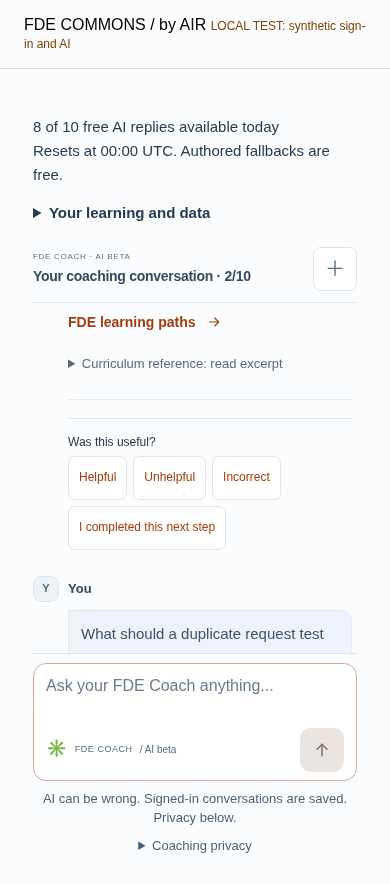
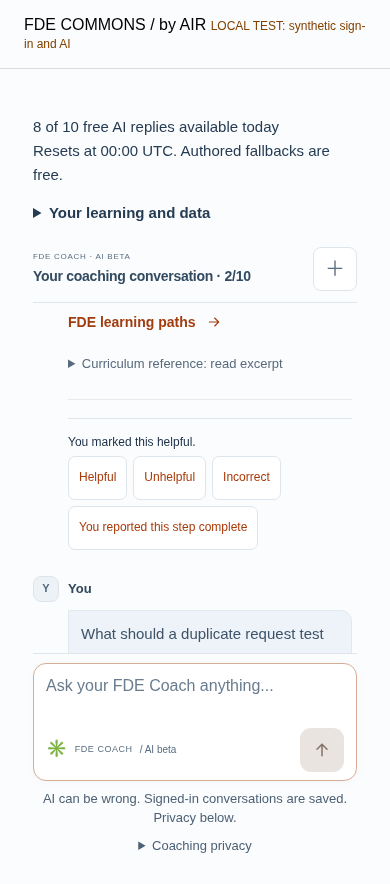
Show saved feedback and reported progress on conversation resume

Changed region(s): [[0.2154, 0.5803, 0.6154, 0.6109], [0.1846, 0.4887, 0.4923, 0.5192]]

diff --git a/learn/src/components/fde-coach/ResponseFeedback.tsx b/learn/src/components/fde-coach/ResponseFeedback.tsx
@@ -1,7 +1,7 @@
 import { useState } from 'react';
 import type { useAccount } from './use-account';
-export default function ResponseFeedback({ account, operation, hasStep }: { account: ReturnType<typeof useAccount>; operation: string; hasStep: boolean }) {
-  const [status,setStatus]=useState(''),[busy,setBusy]=useState(false);
-  async function report(body:Record<string,unknown>){setBusy(true);try{await account.request('feedback',{operation,...body});setStatus(body.completed?'Next step marked complete.':'Feedback saved. Thank you.');}catch(e){setStatus(e instanceof Error?e.message:'Could not save.');}finally{setBusy(false);}}
-  return <div className="fde-response-feedback" aria-label="Response feedback"><p>Was this useful?</p><div>{['helpful','unhelpful','incorrect'].map(r=><button type="button" key={r} disabled={busy} onClick={()=>void report({rating:r})}>{r[0].toUpperCase()+r.slice(1)}</button>)}{hasStep?<button type="button" disabled={busy} onClick={()=>void report({completed:true})}>I completed this next step</button>:null}</div><p role="status">{status}</p></div>;
+export default function ResponseFeedback({ account, operation, hasStep, initial }: { account: ReturnType<typeof useAccount>; operation: string; hasStep: boolean; initial?: {rating:string|null;completed:boolean} }) {
+  const [status,setStatus]=useState(''),[busy,setBusy]=useState(false),[rating,setRating]=useState(initial?.rating??null),[completed,setCompleted]=useState(initial?.completed??false);
+  async function report(body:Record<string,unknown>){setBusy(true);try{await account.request('feedback',{operation,...body});if(body.rating)setRating(String(body.rating));if(body.completed)setCompleted(true);setStatus(body.completed?'Next step marked complete.':'Feedback saved. Thank you.');}catch(e){setStatus(e instanceof Error?e.message:'Could not save.');}finally{setBusy(false);}}
+  return <div className="fde-response-feedback" aria-label="Response feedback"><p>{rating?`You marked this ${rating}.`:"Was this useful?"}</p><div>{['helpful','unhelpful','incorrect'].map(r=><button type="button" key={r} disabled={busy} aria-pressed={rating===r} onClick={()=>void report({rating:r})}>{r[0].toUpperCase()+r.slice(1)}</button>)}{hasStep?<button type="button" disabled={busy||completed} onClick={()=>void report({completed:true})}>{completed?"You reported this step complete":"I completed this next step"}</button>:null}</div><p role="status">{status}</p></div>;
 }

diff --git a/learn/src/components/fde-coach/FdeCoach.tsx b/learn/src/components/fde-coach/FdeCoach.tsx
@@ -255,7 +255,7 @@ export default function FdeCoach({ aiBeta = false, accountsEnabled = false, cler
               {turn.chat.nextStep ? <p><strong>Next task:</strong> {turn.chat.nextStep.task}<br/><strong>Definition of done:</strong> {turn.chat.nextStep.definitionOfDone}</p> : null}
               {turn.chat.question ? <p>{turn.chat.question}</p> : null}
               {turn.chat.sources.length ? <ul className="fde-resource-list">{turn.chat.sources.map(source => <li key={source.id}><a href={source.href}>{source.title}<Arrow small/></a><details><summary>Curriculum reference: read excerpt</summary><span>{source.excerpt}</span></details></li>)}</ul> : null}
-              {accountsEnabled && turn.chat.responseId && turn.chat.mode !== 'intake' ? <ResponseFeedback account={account} operation={turn.chat.responseId} hasStep={Boolean(turn.chat.nextStep)}/> : null}
+              {accountsEnabled && turn.chat.responseId && turn.chat.mode !== 'intake' ? <ResponseFeedback account={account} operation={turn.chat.responseId} hasStep={Boolean(turn.chat.nextStep)} initial={turn.chat.feedback}/> : null}
             </> : null}
             {turn.reply?.parts.map((part, index) => <div key={index} className={`fde-lesson-part fde-lesson-part--${part.kind}`}>{part.kind === "principle" ? <p className="fde-kicker">THE PRINCIPLE</p> : null}{part.text.split("\n\n").map((paragraph, i) => <p key={i}>{paragraph}</p>)}</div>)}
           </div></article>)}

diff --git a/src/accounts/routes.ts b/src/accounts/routes.ts
@@ -33,8 +33,8 @@ export async function handleAccountRequest(request: Request, env: AccountEnv): P
       if (action === 'export') return json(await exportAccount(env, owner));
       if (action === 'conversation') {
         const c = await conversation(env, owner, new URL(request.url).searchParams.get('id'));
-        const messages = await env.COACH_DB.prepare('SELECT question,response,revision FROM coach_messages WHERE owner=? AND conversation=? ORDER BY revision').bind(owner, c.id).all();
-        return json({ id: c.id, revision: c.revision, messages: messages.results.map((m: any) => ({ question: m.question, reply: JSON.parse(m.response) })), usage: await admissionRpc(env, 'user-status', limits) });
+        const messages = await env.COACH_DB.prepare('SELECT m.question,m.response,m.revision,f.rating,f.completed FROM coach_messages m LEFT JOIN coach_feedback f ON f.operation=m.operation AND f.owner=m.owner WHERE m.owner=? AND m.conversation=? ORDER BY m.revision').bind(owner, c.id).all();
+        return json({ id: c.id, revision: c.revision, messages: messages.results.map((m: any) => ({ question: m.question, reply: { ...JSON.parse(m.response), feedback: { rating:m.rating??null, completed:Boolean(m.completed) } } })), usage: await admissionRpc(env, 'user-status', limits) });
       }
       return json({ error: 'Not found' }, 404);
     }

diff --git a/src/accounts/accounts.test.ts b/src/accounts/accounts.test.ts
@@ -99,6 +99,7 @@ describe('successful-response quotas and durable recovery', () => {
     expect((await parsed('feedback',{operation:reply.responseId,rating:'incorrect'},'bob')).status).toBe(404);
     expect((await parsed('feedback',{operation:reply.responseId,rating:'helpful'})).status).toBe(200);
     expect((await parsed('feedback',{operation:reply.responseId,completed:true})).status).toBe(200);
+    expect((await parsed(`conversation?id=${a}`)).body.messages.at(-1).reply.feedback).toEqual({rating:'helpful',completed:true});
     const feedback=(await parsed('export')).body.feedback;expect(feedback).toHaveLength(1);expect(feedback[0]).toMatchObject({rating:'helpful',completed:1});
     expect((await parsed('feedback',{operation:reply.responseId,rating:'raw private text'})).status).toBe(400);
     expect((await parsed('export',undefined,'bob')).body.feedback).toHaveLength(0);

diff --git a/src/coach-chat/types.ts b/src/coach-chat/types.ts
@@ -15,6 +15,7 @@ export interface ChatEnv extends CoachEnv {
 export type ChatSource = { id: string; title: string; href: string; excerpt: string; contentHash: string };
 export interface ChatReply {
   responseId?: string;
+  feedback?: { rating: 'helpful'|'unhelpful'|'incorrect'|null; completed: boolean };
   token: string; goal: ChatGoal; turn: number; remainingTurns: number;
   mode: 'intake' | 'ai' | 'fallback'; answer: string; question: string;
   gaps: { gap: string; evidence: string }[];

diff --git a/docs/coach-v1/TEST_RESULTS_B.md b/docs/coach-v1/TEST_RESULTS_B.md
@@ -1,11 +1,11 @@
 # PR B test evidence
 
-- Complete suite: 321 tests across 22 files passed, including all account, quota, retry, race, expiry and cross-user regressions.
+- Complete suite: 323 tests across 23 files passed, including all account, quota, retry, race, expiry and cross-user regressions.
 - Structured telemetry tests cover private-field rejection, model/category allowlists, unknown price/token handling, configured estimates, actual-vs-denied attempt accounting and failing sinks.
-- D1 tests cover concurrent daily/monthly activity deduplication and owner-only feedback, explicit completion, export and deletion.
+- D1 tests cover concurrent daily/monthly activity deduplication and owner-only feedback, explicit completion, resumed feedback/progress, export and deletion.
 - Worker TypeScript passed. Learn Astro diagnostics: zero errors/warnings, four pre-existing hints.
 - Full enabled root/Learn build passed (148 Learn pages). Production and D1/Analytics local Wrangler 4.160.1 dry runs passed.
-- Twelve account browser checks passed, including feedback and explicit completion, with refreshed desktop/mobile screenshots under screenshots/observability.
+- Thirteen account browser checks passed, including feedback and explicit completion, with refreshed desktop/mobile screenshots under screenshots/observability.
 - The unchanged feature-off browser suite passed 33 checks. Rendered report-status suite passed nine scenarios. All 40 existing synthetic evaluation fixtures passed with zero provider calls.
 
 Browser sign-in and AI are synthetic; local D1/SQLite/authentication are real execution paths. No live OAuth, Analytics ingestion, real model quality or production readiness is claimed. No production bindings, migration history, secrets or routes were changed.
